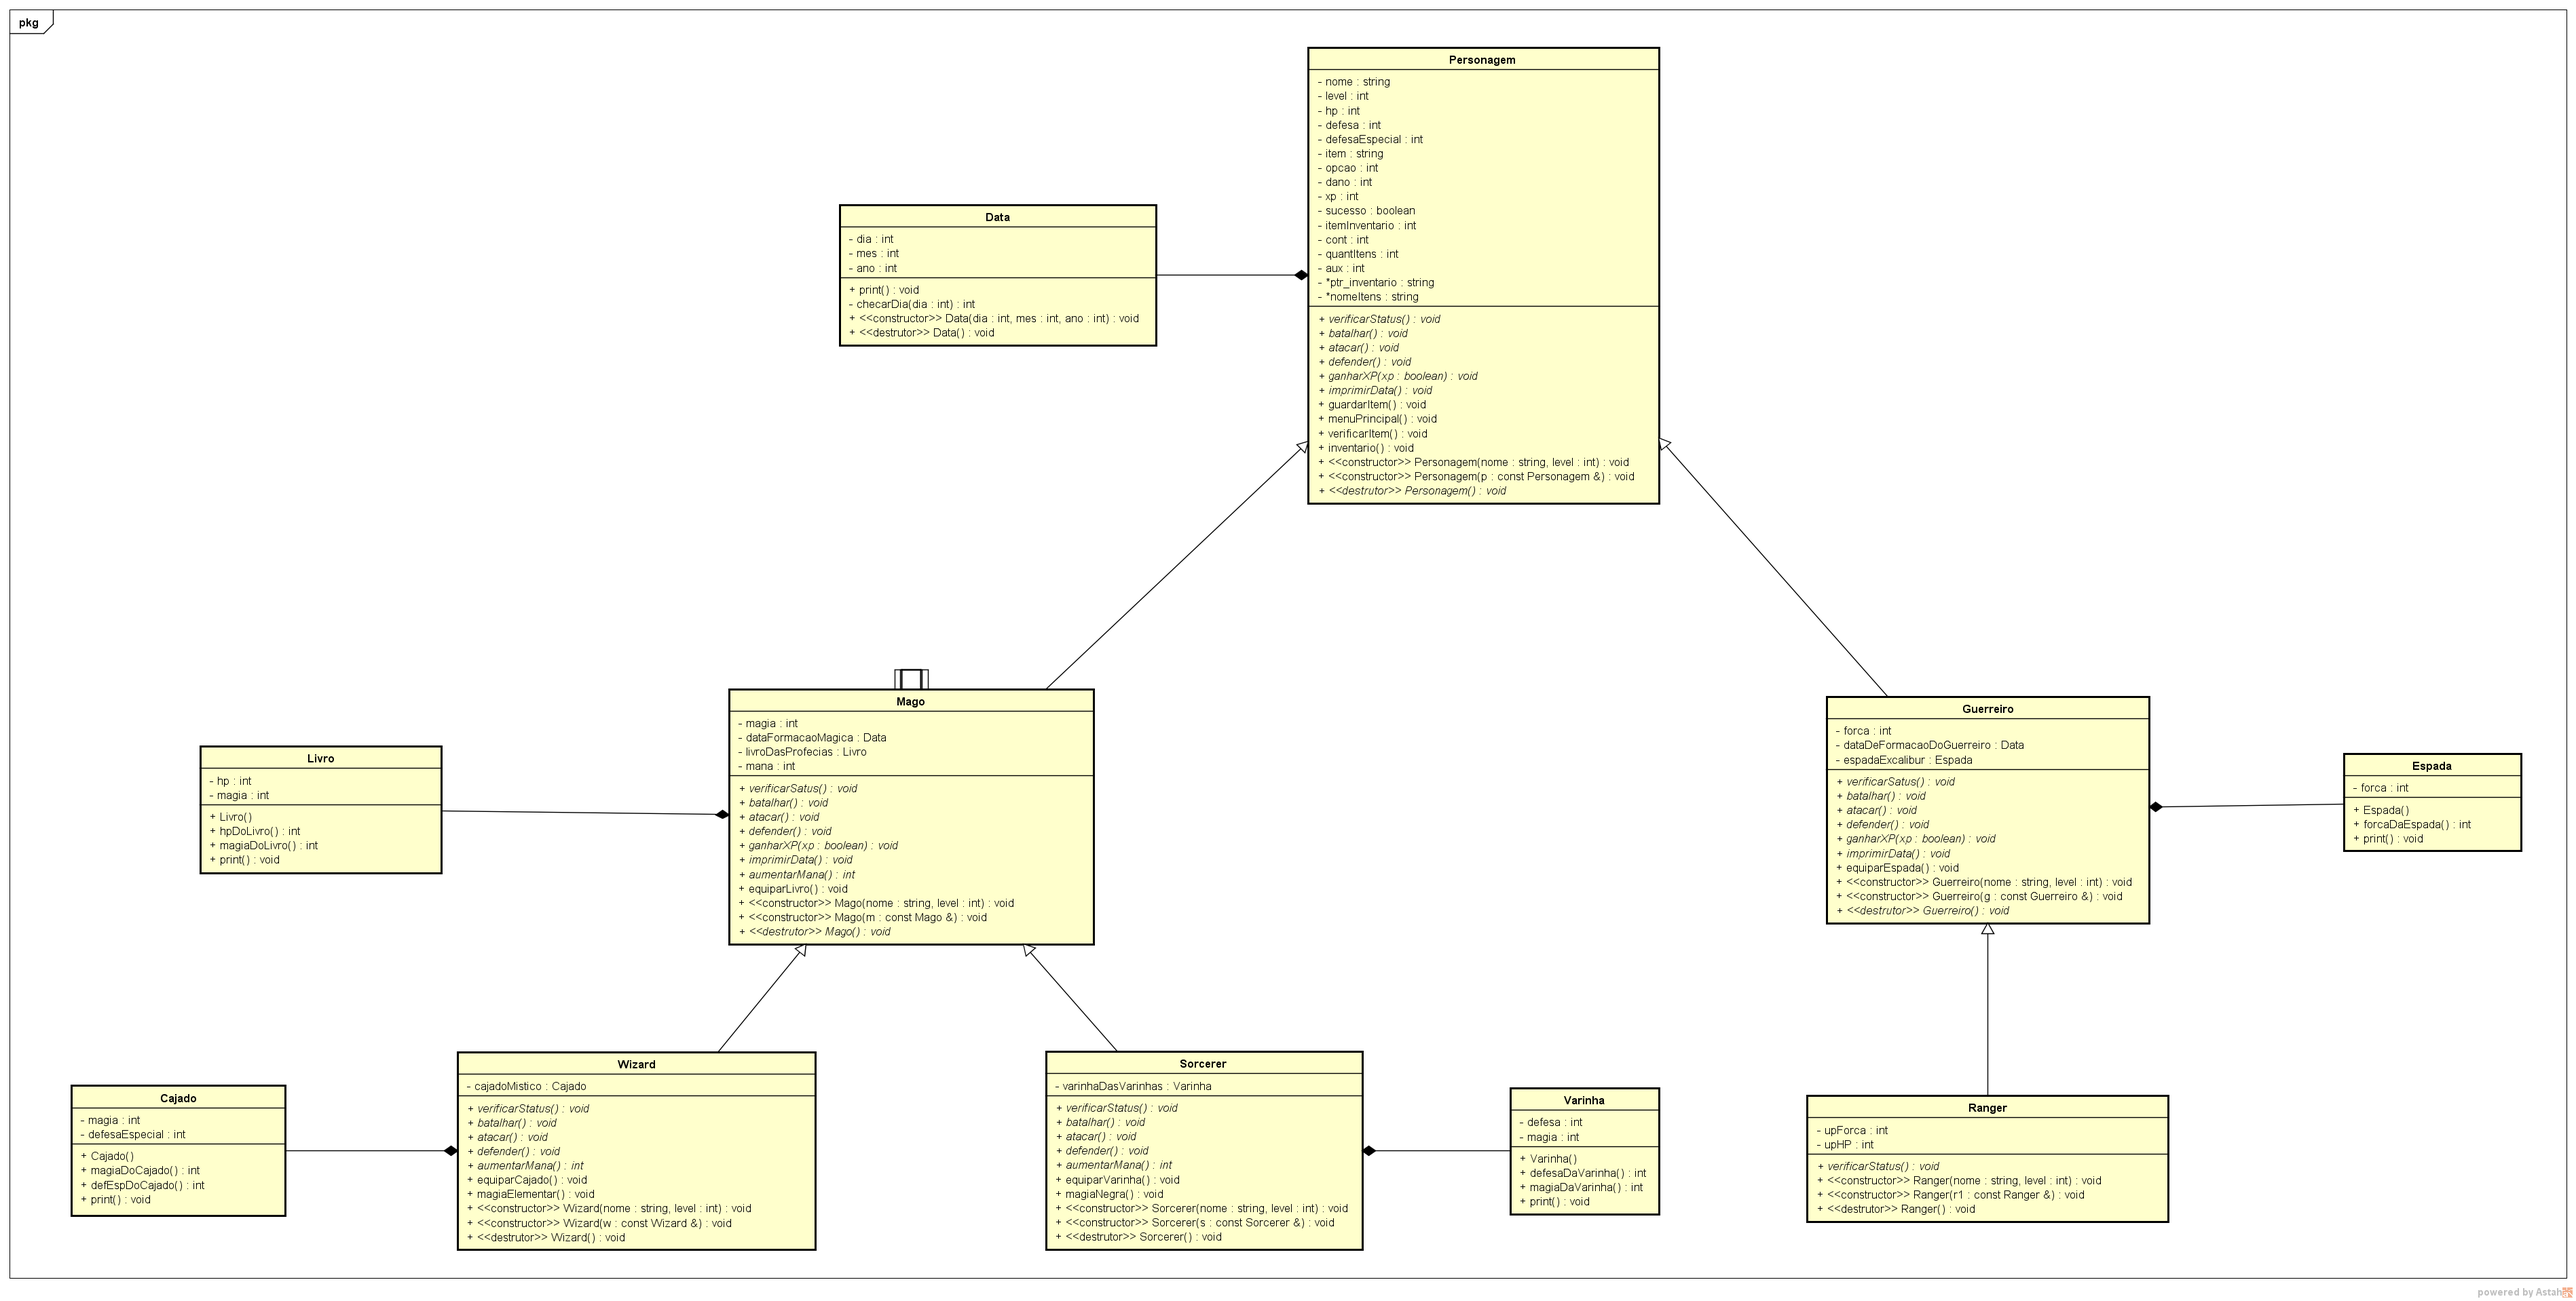
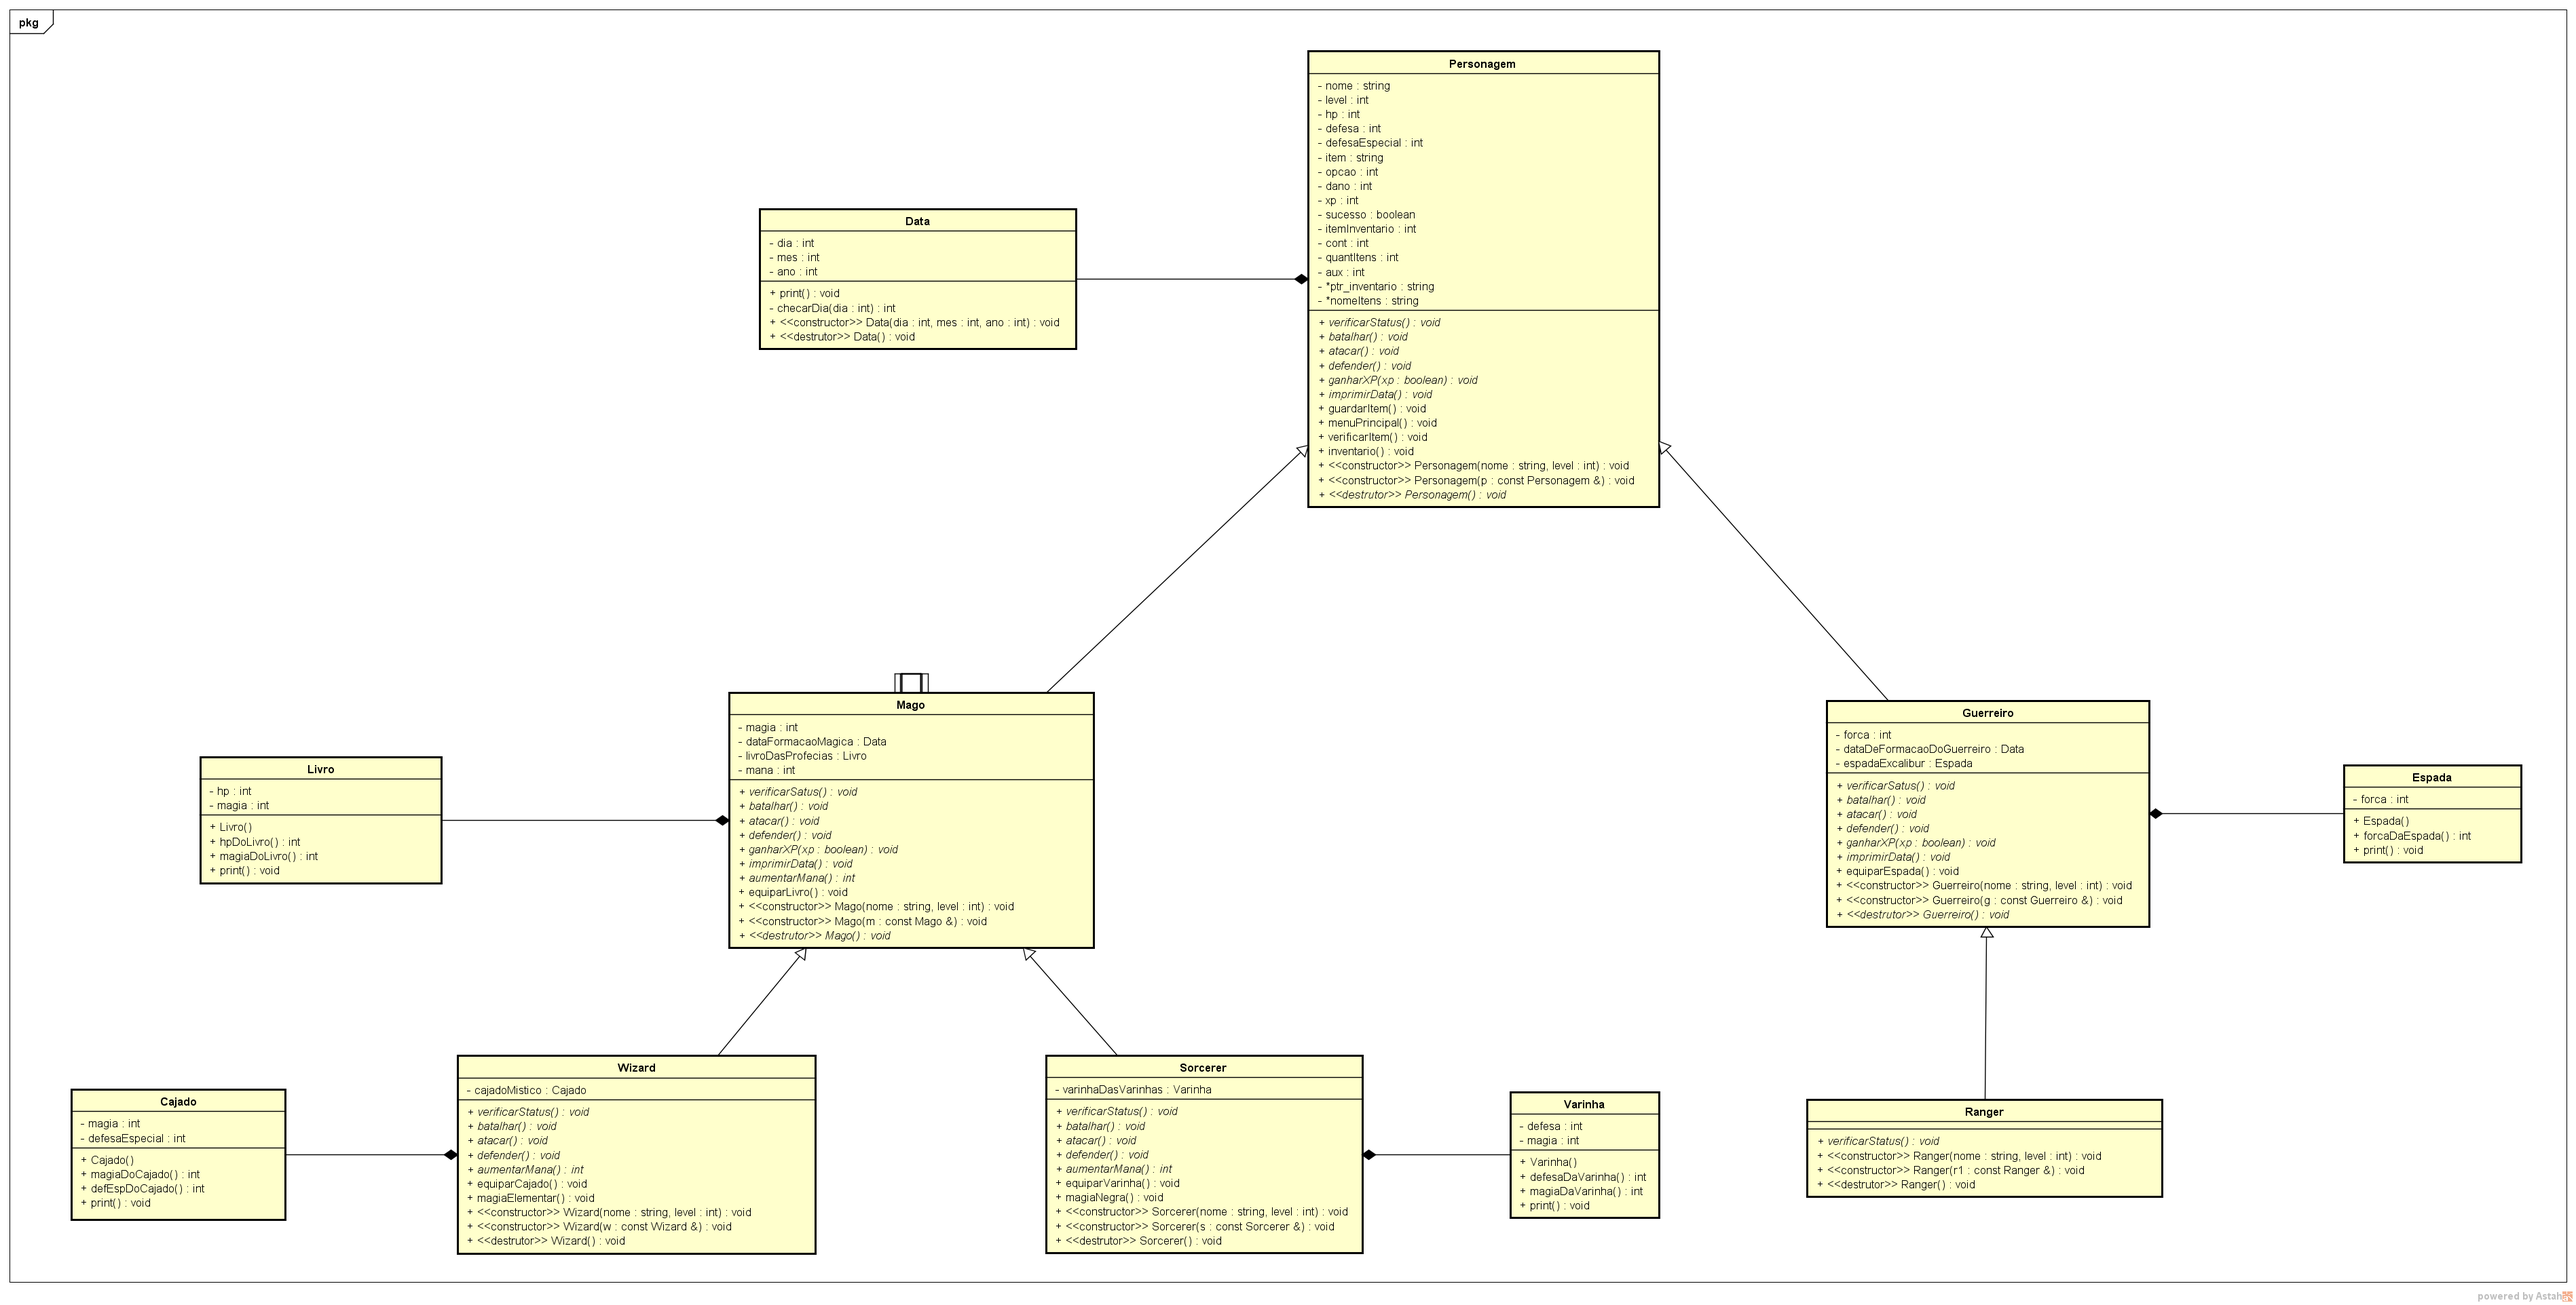
Correção Polimorfismo

diff --git a/Ranger.cpp b/Ranger.cpp
@@ -10,8 +10,8 @@ using namespace std;
 
 Ranger::Ranger(const string &nome, int level):Guerreiro(nome,level){
     
-    this->upForca = forca + 30;
-    this->upHP = hp + 20;
+    this->forca += 30;
+    this->hp += 20;
 }
 
 Ranger::~Ranger(){
@@ -27,10 +27,10 @@ bool Ranger::operator==(const Ranger &rangDeFora) const{
 	
 	if(nome != rangDeFora.nome) return false;
 	if(level != rangDeFora.level) return false;
-	if(upHP != rangDeFora.upHP) return false;
+	if(hp != rangDeFora.hp) return false;
+    if(forca != rangDeFora.forca) return false;
 	if(defesa != rangDeFora.defesa) return false;
 	if(defesaEspecial != rangDeFora.defesaEspecial) return false;
-	if(upForca != rangDeFora.upForca) return false;
 	return true;
 }
 

diff --git a/Sorcerer.cpp b/Sorcerer.cpp
@@ -12,8 +12,8 @@ Inimigo m3;
 
 Sorcerer::Sorcerer(const string &nome, int level):Mago(nome,level){
     
-    this->hp = hp + 10;
-    this->mana = mana + 30;
+    this->hp += 10;
+    this->mana += 30;
     equiparVarinha();
     this->auxHP = hp;
 }

diff --git a/Ranger.h b/Ranger.h
@@ -24,8 +24,6 @@ class Ranger : public Guerreiro{
 		bool operator==(const Ranger &) const;
 		
     private:
-        int upForca;
-        int upHP;
 };
 
 #endif
